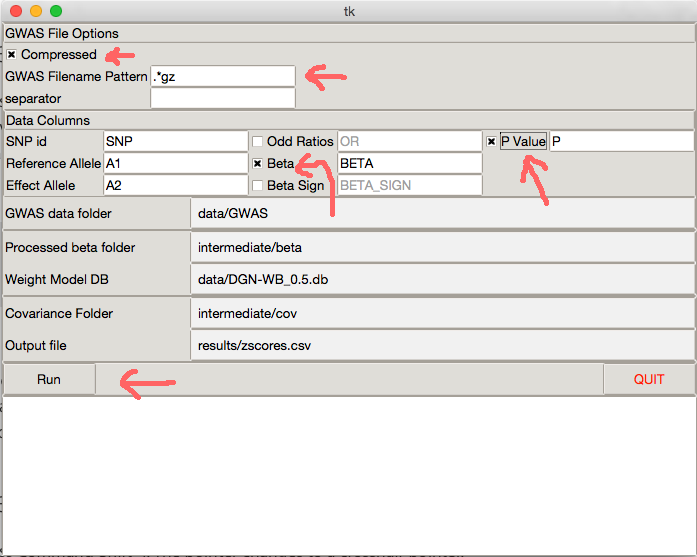
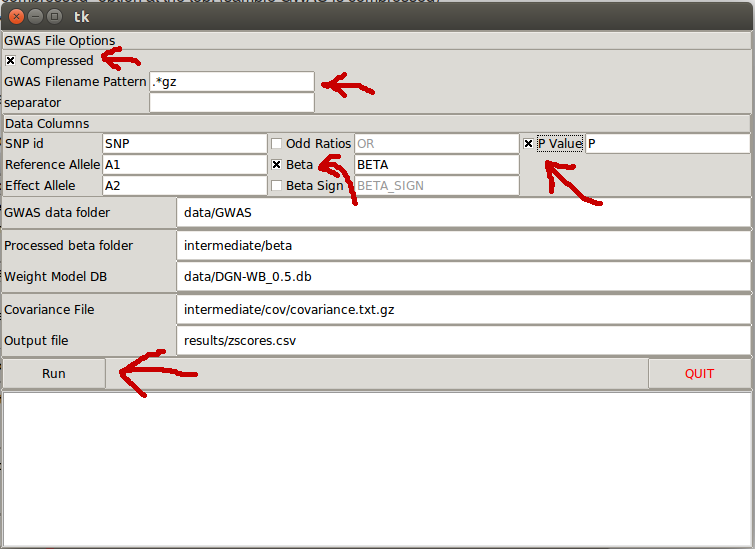
Updated UI to new parameter handling

Changed region(s): [[0.0, 0.0, 1.0, 1.0], [0.9039, 0.6503, 0.9641, 0.7122], [0.8436, 0.6503, 0.8737, 0.7122]]

diff --git a/software/MainScreen.py b/software/MainScreen.py
@@ -22,7 +22,7 @@ from Utilities import checkSubdirectorySanity
 
 GWAS_INPUT_DEFAULT = "data/GWAS"
 BETA_FOLDER = "intermediate/beta"
-COVARIANCE_FOLDER = "intermediate/cov"
+COVARIANCE_FILE = "intermediate/cov/covariance.txt.gz"
 WEIGHT_DB_PATH = "data/DGN-WB_0.5.db"
 OUTPUT_PATH = "results/zscores.csv"
 
@@ -102,9 +102,9 @@ class MainScreen(object):
         self.frequency_value = Tkinter.StringVar()
         self.frequency_value.set("FRQ")
 
-        self.covariance_folder = "."
-        if os.path.exists(COVARIANCE_FOLDER):
-            self.covariance_folder = COVARIANCE_FOLDER
+        self.covariance_file = "."
+        if os.path.exists(COVARIANCE_FILE):
+            self.covariance_file = COVARIANCE_FILE
 
         self.view = MainScreenView.MainScreenView(root, self)
 
@@ -148,10 +148,10 @@ class MainScreen(object):
         if rel:
             self.output_path = rel
 
-    def covarianceFolderButtonPressed(self):
-        rel = self.folderButtonPressed(self.view.covariance_folder_button, True)
+    def covarianceFileButtonPressed(self):
+        rel = self.openFileButtonPressed(self.view.covariance_file_button)
         if rel:
-            self.covariance_folder = rel
+            self.covariance_file = rel
 
     def quitButtonPressed(self):
         self.root.quit()
@@ -338,8 +338,7 @@ class MainScreen(object):
                 self.beta_folder = source.beta_folder
                 self.weight_db_path = source.weight_db_path
                 self.output_file = source.output_path
-                self.covariance_folder = source.covariance_folder
-                self.covariance_file_pattern = 'cov-1000GP_Phase3_chr(?<!\d)\d{1,2}-(.*)-DGN-WB_0.5.db' #<- Ignore it for now
+                self.covariance = source.covariance_file
                 self.zscore_scheme = ZScoreCalculation.BETA_Z_SIGMA_REF
                 self.normalization_scheme = Normalization.NONE
                 self.input_format = Formats.FlatFile

diff --git a/software/MainScreenView.py b/software/MainScreenView.py
@@ -256,15 +256,15 @@ class MainScreenView(Frame):
         output_frame.pack(fill=X, expand=1, side=TOP)
         controller = self.controller()
 
-        label = Label(output_frame, text=TS("Covariance Folder"))
+        label = Label(output_frame, text=TS("Covariance File"))
         label.pack(side=LEFT)
 
-        self.covariance_folder_button = Button(output_frame, text=controller.covariance_folder,
-            command = controller.covarianceFolderButtonPressed,
+        self.covariance_file_button = Button(output_frame, text=controller.covariance_file,
+            command = controller.covarianceFileButtonPressed,
             style = "RHW.TButton",
         )
-        self.covariance_folder_button.pack(side=RIGHT)
-        self.addToDisabable(self.covariance_folder_button)
+        self.covariance_file_button.pack(side=RIGHT)
+        self.addToDisabable(self.covariance_file_button)
 
     def configureMode(self):
         text = TS("Run")
